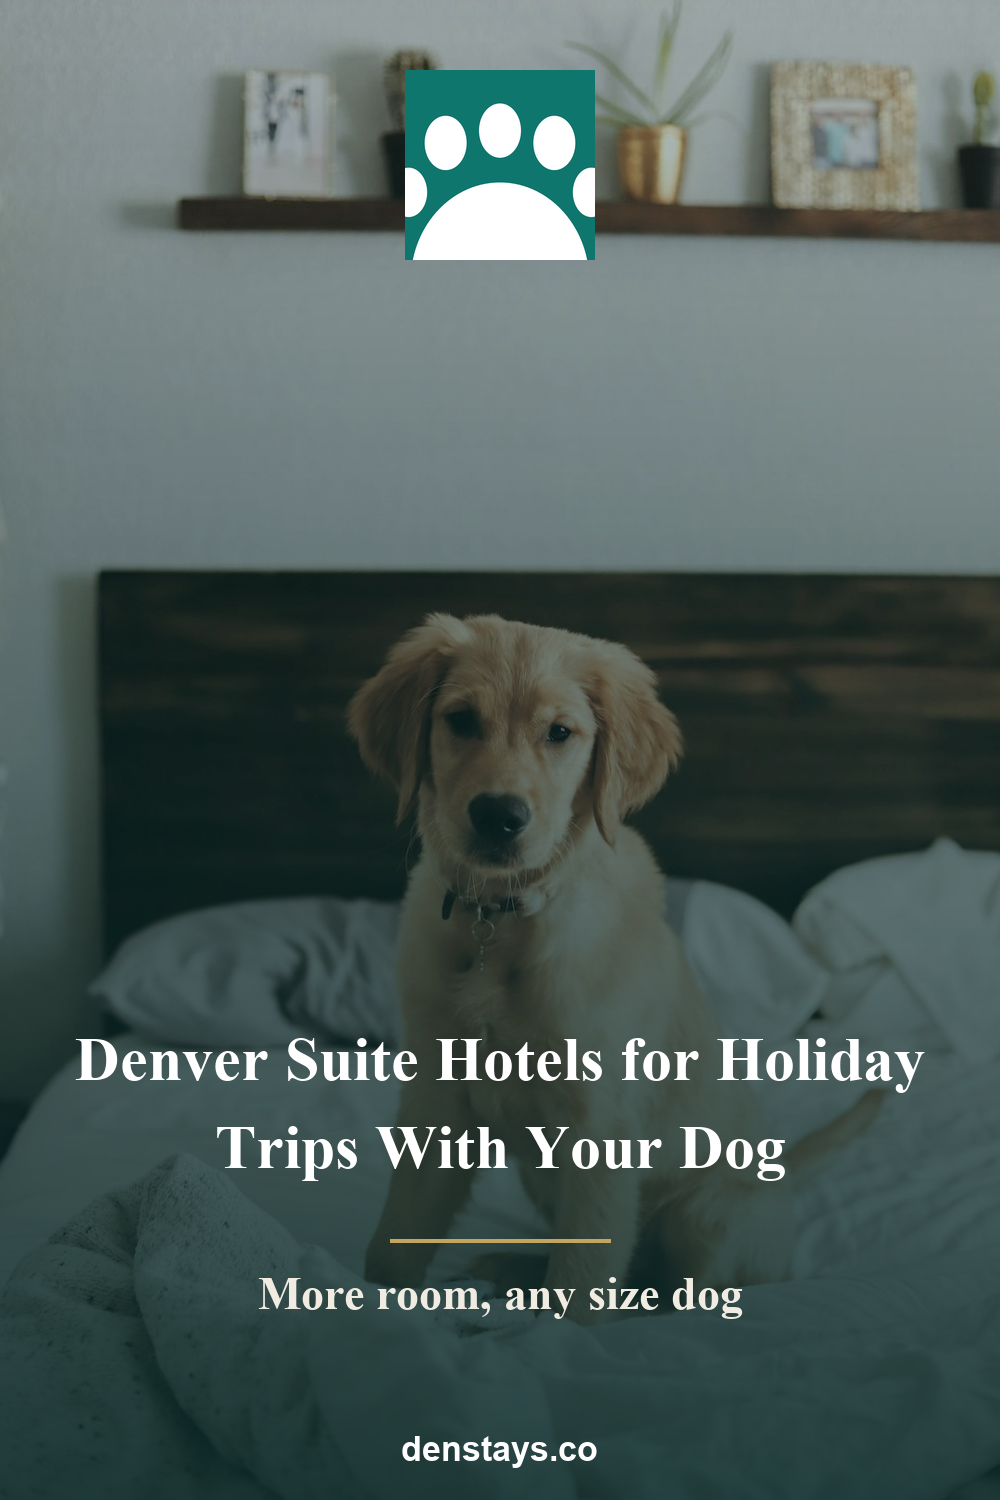
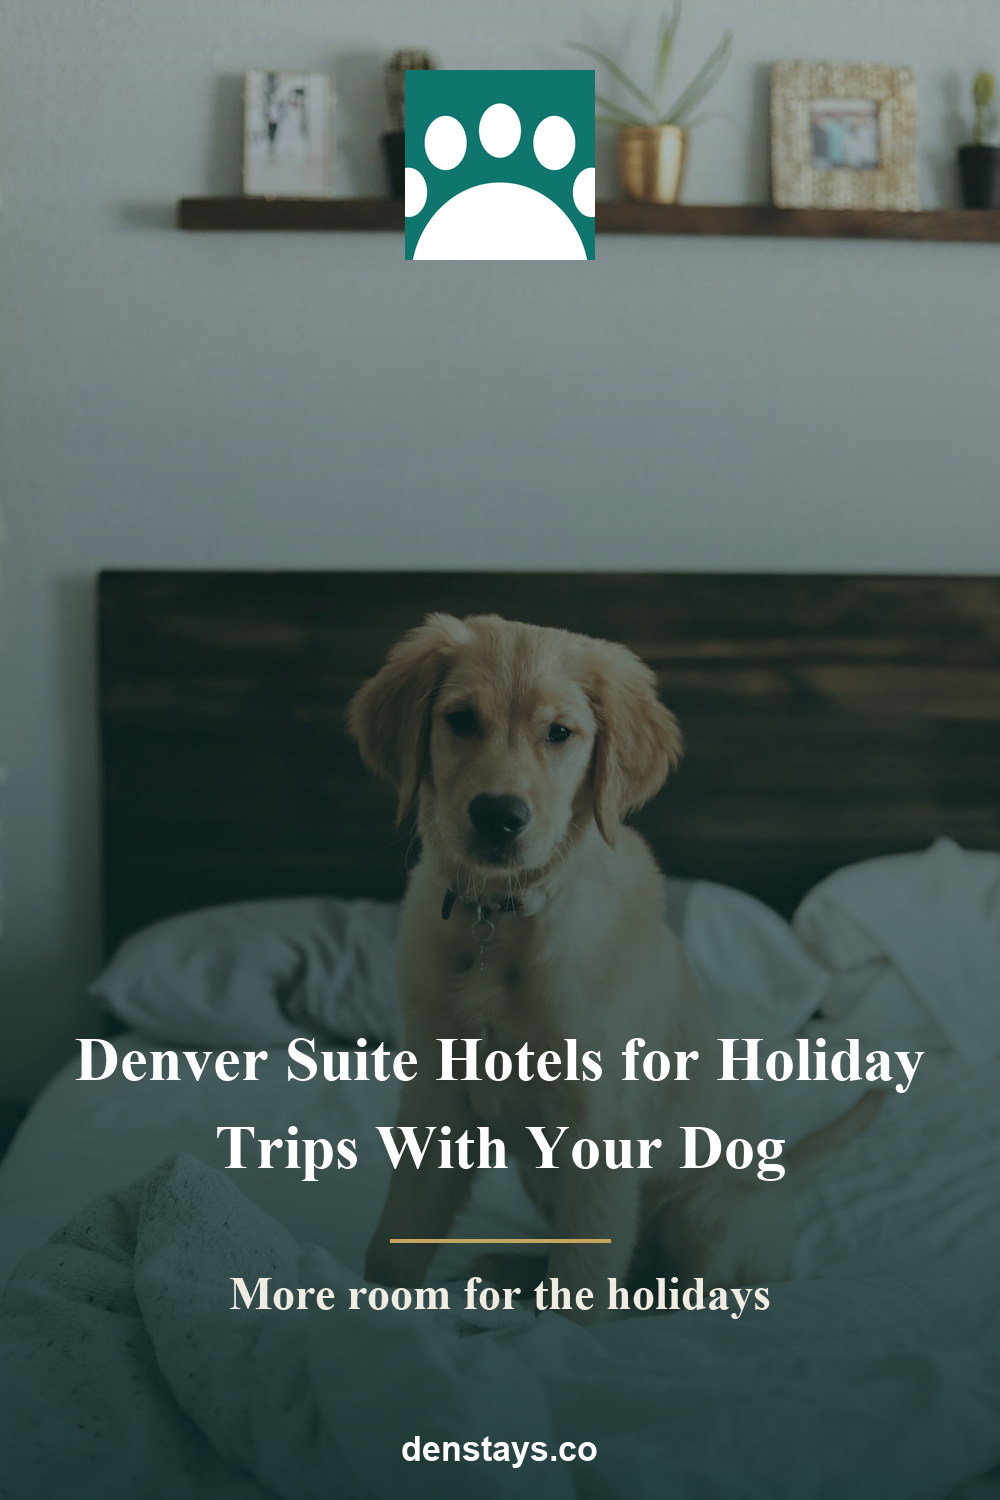
Update gallery: 2026-11-01 batch reviewed; Denver suites tagline re-render

Changed region(s): [[0.217, 0.828, 0.775, 0.8893]]

diff --git a/pins/index.html b/pins/index.html
@@ -1017,7 +1017,7 @@ code { font-size:12px; color:#888; }
         <div class="card">
           <img src="austin-airport-hotels.png" alt="Pet-Friendly Austin Airport Hotels for Your Dog">
           <div class="meta">
-            <span class="status" style="background:#c4a560">draft</span>
+            <span class="status" style="background:#2e7d5b">ready</span>
             <span class="type">teal · airport-hotel</span>
             <h3>Pet-Friendly Austin Airport Hotels for Your Dog</h3>
             <code>austin-airport-hotels</code>
@@ -1026,7 +1026,7 @@ code { font-size:12px; color:#888; }
         <div class="card">
           <img src="denver-holiday-suites.png" alt="Denver Suite Hotels for Holiday Trips With Your Dog">
           <div class="meta">
-            <span class="status" style="background:#c4a560">draft</span>
+            <span class="status" style="background:#2e7d5b">ready</span>
             <span class="type">photo · holiday-suites</span>
             <h3>Denver Suite Hotels for Holiday Trips With Your Dog</h3>
             <code>denver-holiday-suites</code>
@@ -1044,7 +1044,7 @@ code { font-size:12px; color:#888; }
         <div class="card">
           <img src="san-diego-winter.png" alt="Winter Getaway to San Diego, CA with Your Dog">
           <div class="meta">
-            <span class="status" style="background:#c4a560">draft</span>
+            <span class="status" style="background:#2e7d5b">ready</span>
             <span class="type">photo · winter-escape</span>
             <h3>Winter Getaway to San Diego, CA with Your Dog</h3>
             <code>san-diego-winter</code>
@@ -1053,7 +1053,7 @@ code { font-size:12px; color:#888; }
         <div class="card">
           <img src="portland-columbia-gorge.png" alt="Columbia Gorge Waterfalls With Your Dog: A Portland Day Trip">
           <div class="meta">
-            <span class="status" style="background:#c4a560">draft</span>
+            <span class="status" style="background:#2e7d5b">ready</span>
             <span class="type">teal · day-trip-waterfalls</span>
             <h3>Columbia Gorge Waterfalls With Your Dog: A Portland Day Trip</h3>
             <code>portland-columbia-gorge</code>
@@ -1062,7 +1062,7 @@ code { font-size:12px; color:#888; }
         <div class="card">
           <img src="nashville-centennial-park.png" alt="Centennial Park With Your Dog in Nashville, TN">
           <div class="meta">
-            <span class="status" style="background:#c4a560">draft</span>
+            <span class="status" style="background:#2e7d5b">ready</span>
             <span class="type">band · city-park</span>
             <h3>Centennial Park With Your Dog in Nashville, TN</h3>
             <code>nashville-centennial-park</code>
@@ -1071,7 +1071,7 @@ code { font-size:12px; color:#888; }
         <div class="card">
           <img src="austin-winter.png" alt="Winter Getaway to Austin, TX with Your Dog">
           <div class="meta">
-            <span class="status" style="background:#c4a560">draft</span>
+            <span class="status" style="background:#2e7d5b">ready</span>
             <span class="type">photo · winter-escape</span>
             <h3>Winter Getaway to Austin, TX with Your Dog</h3>
             <code>austin-winter</code>
